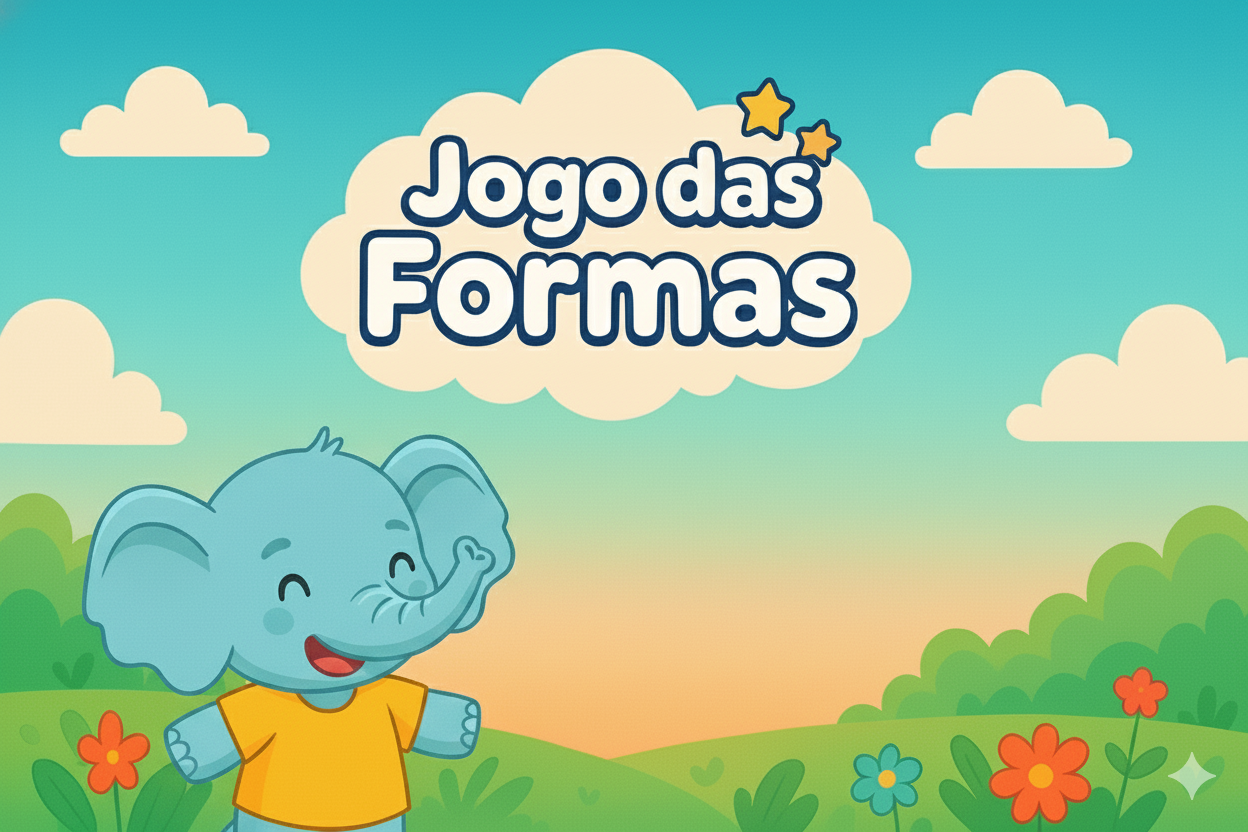
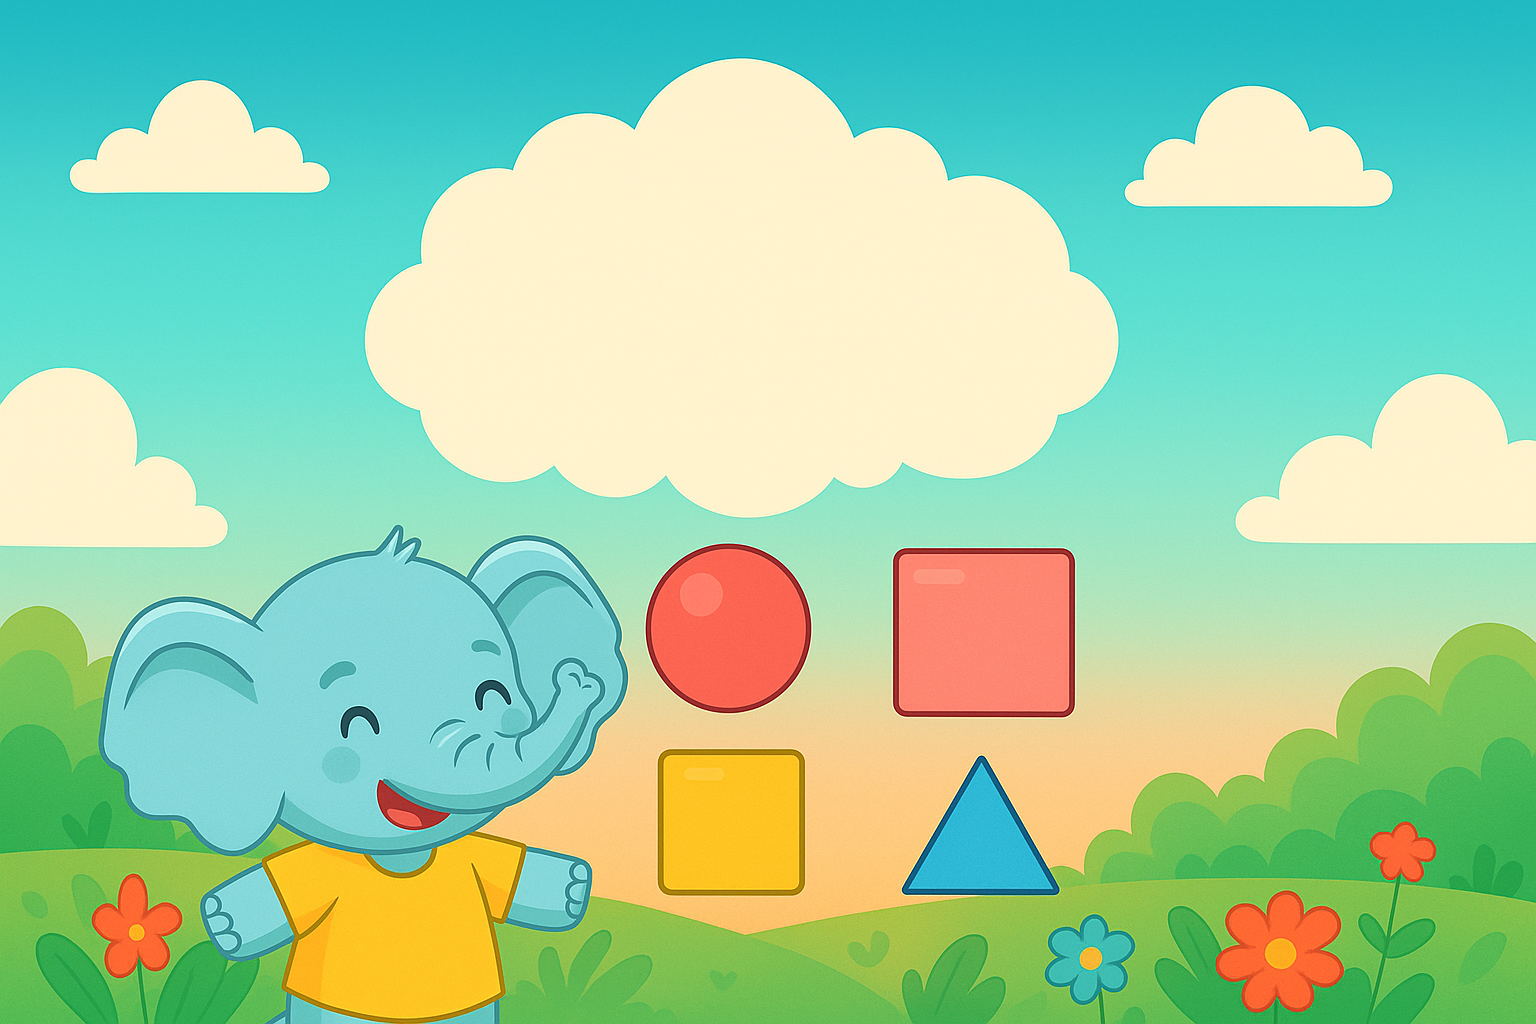
feat: changed initial and next level screen on forms

diff --git a/src/components/features/games/CoordinationGame.tsx b/src/components/features/games/CoordinationGame.tsx
@@ -3,7 +3,8 @@ import { Header } from "@/components/Header/Header";
 import { BackButton } from "@/components/utils/BackButton";
 import CoordinationGameScene from "@/games/coordination/scenes/GameScene";
 import { EndScene } from "@/games/common/scenes/EndScene";
-import ClickButtonStartScene from "@/games/clickedButton/scenes/ClickButtonStart";
+import { StartScene } from "@/games/common/scenes/StartScene";
+import { LevelCompletedScene } from "@/games/common/scenes/LevelCompletedScene";
 import Phaser from "phaser";
 import { useEffect, useRef } from "react";
 
@@ -14,23 +15,31 @@ export const CoordinationGame = () => {
   useEffect(() => {
     if (!containerRef.current) return;
 
-    const CoordinationStartScene = new ClickButtonStartScene(
-      "/assets/forms/gameData/startData.JSON",
-      "CoordinationGameScene",
-    );
-
     const config: Phaser.Types.Core.GameConfig = {
       type: Phaser.AUTO,
       width: 800,
       height: 600,
       scene: [
-        CoordinationStartScene,
+        // Tela inicial padronizada mantendo o background do jogo de formas
+        StartScene.create(
+          "CoordinationGameScene",
+          "/assets/forms/bg2.png",
+          "formsBg",
+          "Jogo Das Formas",
+        ),
         CoordinationGameScene,
+        // Tela de nível completo padronizada mantendo o background
+        LevelCompletedScene.create(
+          "CoordinationGameScene",
+          "StartScene",
+          "/assets/forms/bg.png",
+          "formsBg",
+        ),
         // Tela final comum com customização para o jogo de formas
         EndScene.create(
-          "clickButtonStartScene",
-          undefined,
-          undefined,
+          "StartScene",
+          "/assets/forms/bg.png",
+          "formsBg",
           "VOCÊ COMPLETOU AS FORMAS!",
         ),
       ],

diff --git a/src/games/common/scenes/EndScene.ts b/src/games/common/scenes/EndScene.ts
@@ -72,9 +72,18 @@ export class EndScene extends Phaser.Scene {
   }
 
   private createBackground(): void {
-    this.add
-      .image(this.scale.width / 2, this.scale.height / 2, this.backgroundKey)
-      .setScale(1.0);
+    const bg = this.add.image(
+      this.scale.width / 2,
+      this.scale.height / 2,
+      this.backgroundKey,
+    );
+
+    // Calcular escala para preencher a tela sem zoom excessivo
+    const scaleX = this.scale.width / bg.width;
+    const scaleY = this.scale.height / bg.height;
+    const scale = Math.max(scaleX, scaleY);
+    bg.setScale(scale);
+
     // Overlay escuro por cima do background
     this.add.rectangle(
       this.scale.width / 2,

diff --git a/src/games/common/scenes/StartScene.ts b/src/games/common/scenes/StartScene.ts
@@ -231,9 +231,18 @@ export class StartScene extends Phaser.Scene {
   }
 
   private createBackground() {
-    this.add
-      .image(this.scale.width / 2, this.scale.height / 2, this.backgroundKey)
-      .setScale(1.0);
+    const bg = this.add.image(
+      this.scale.width / 2,
+      this.scale.height / 2,
+      this.backgroundKey,
+    );
+
+    // Calcular escala para preencher a tela sem zoom excessivo
+    const scaleX = this.scale.width / bg.width;
+    const scaleY = this.scale.height / bg.height;
+    const scale = Math.max(scaleX, scaleY);
+    bg.setScale(scale);
+
     // Overlay escuro por cima do background
     this.add.rectangle(
       this.scale.width / 2,

diff --git a/src/games/common/scenes/LevelCompletedScene.ts b/src/games/common/scenes/LevelCompletedScene.ts
@@ -74,9 +74,17 @@ export class LevelCompletedScene extends Phaser.Scene {
   }
 
   private createBackground() {
-    this.add
-      .image(this.scale.width / 2, this.scale.height / 2, this.backgroundKey)
-      .setScale(1.2);
+    const bg = this.add.image(
+      this.scale.width / 2,
+      this.scale.height / 2,
+      this.backgroundKey,
+    );
+
+    // Calcular escala para preencher a tela sem zoom excessivo
+    const scaleX = this.scale.width / bg.width;
+    const scaleY = this.scale.height / bg.height;
+    const scale = Math.max(scaleX, scaleY);
+    bg.setScale(scale);
 
     // Overlay escuro
     this.add.rectangle(

diff --git a/src/games/coordination/scenes/GameScene.ts b/src/games/coordination/scenes/GameScene.ts
@@ -180,7 +180,7 @@ export default class CoordinationGameScene extends Phaser.Scene {
               this.time.delayedCall(800, () => {
                 if (this.currentLevelIndex < this.levels.length - 1) {
                   this.currentLevelIndex++;
-                  this.startLevel();
+                  this.scene.start("LevelCompleteScene");
                 } else {
                   this.scene.start("EndScene");
                 }
